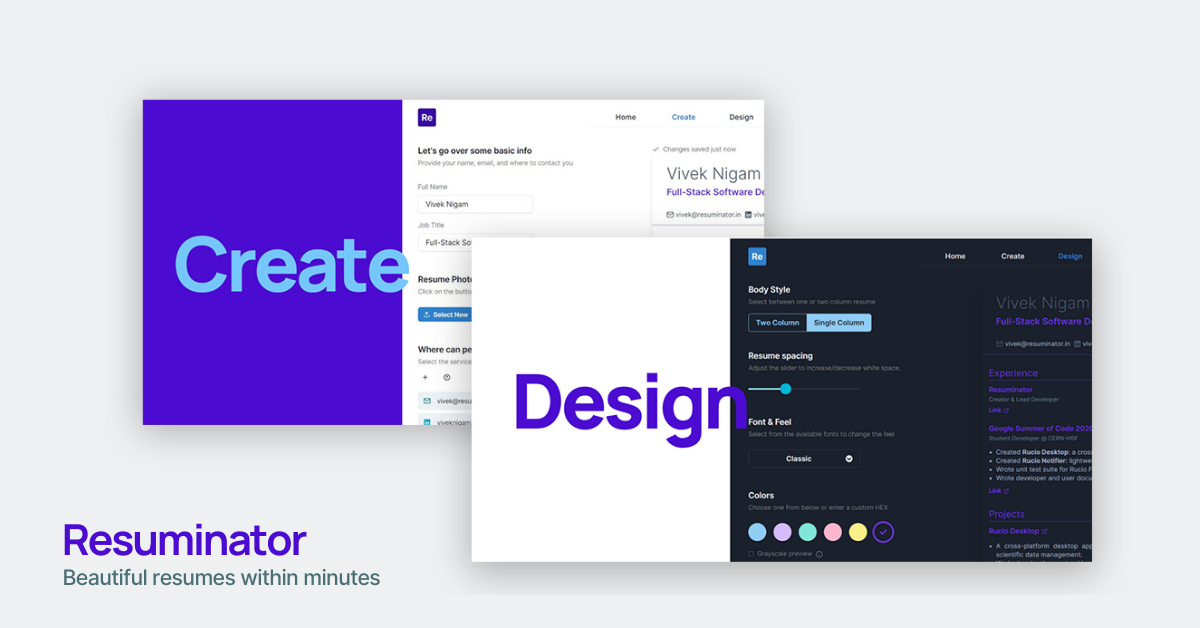
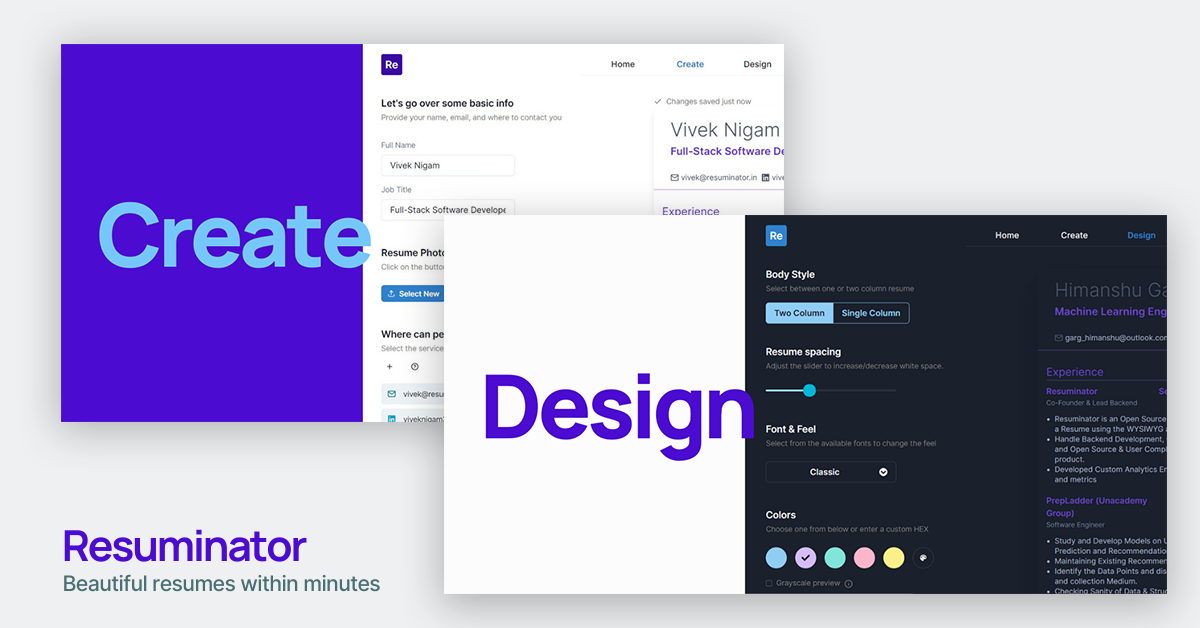
Updated OG Image (w/HG)

Changed region(s): [[0.0308, 0.0605, 0.9867, 0.9984]]

diff --git a/modules/SEO/seo.config.ts b/modules/SEO/seo.config.ts
@@ -12,7 +12,7 @@ const config: NextSeoProps = {
     url: defaultSeoConfig.url,
     images: [
       {
-        url: "/og1.png",
+        url: "/og.png",
         width: 1200,
         height: 628,
         alt: defaultSeoConfig.title,
